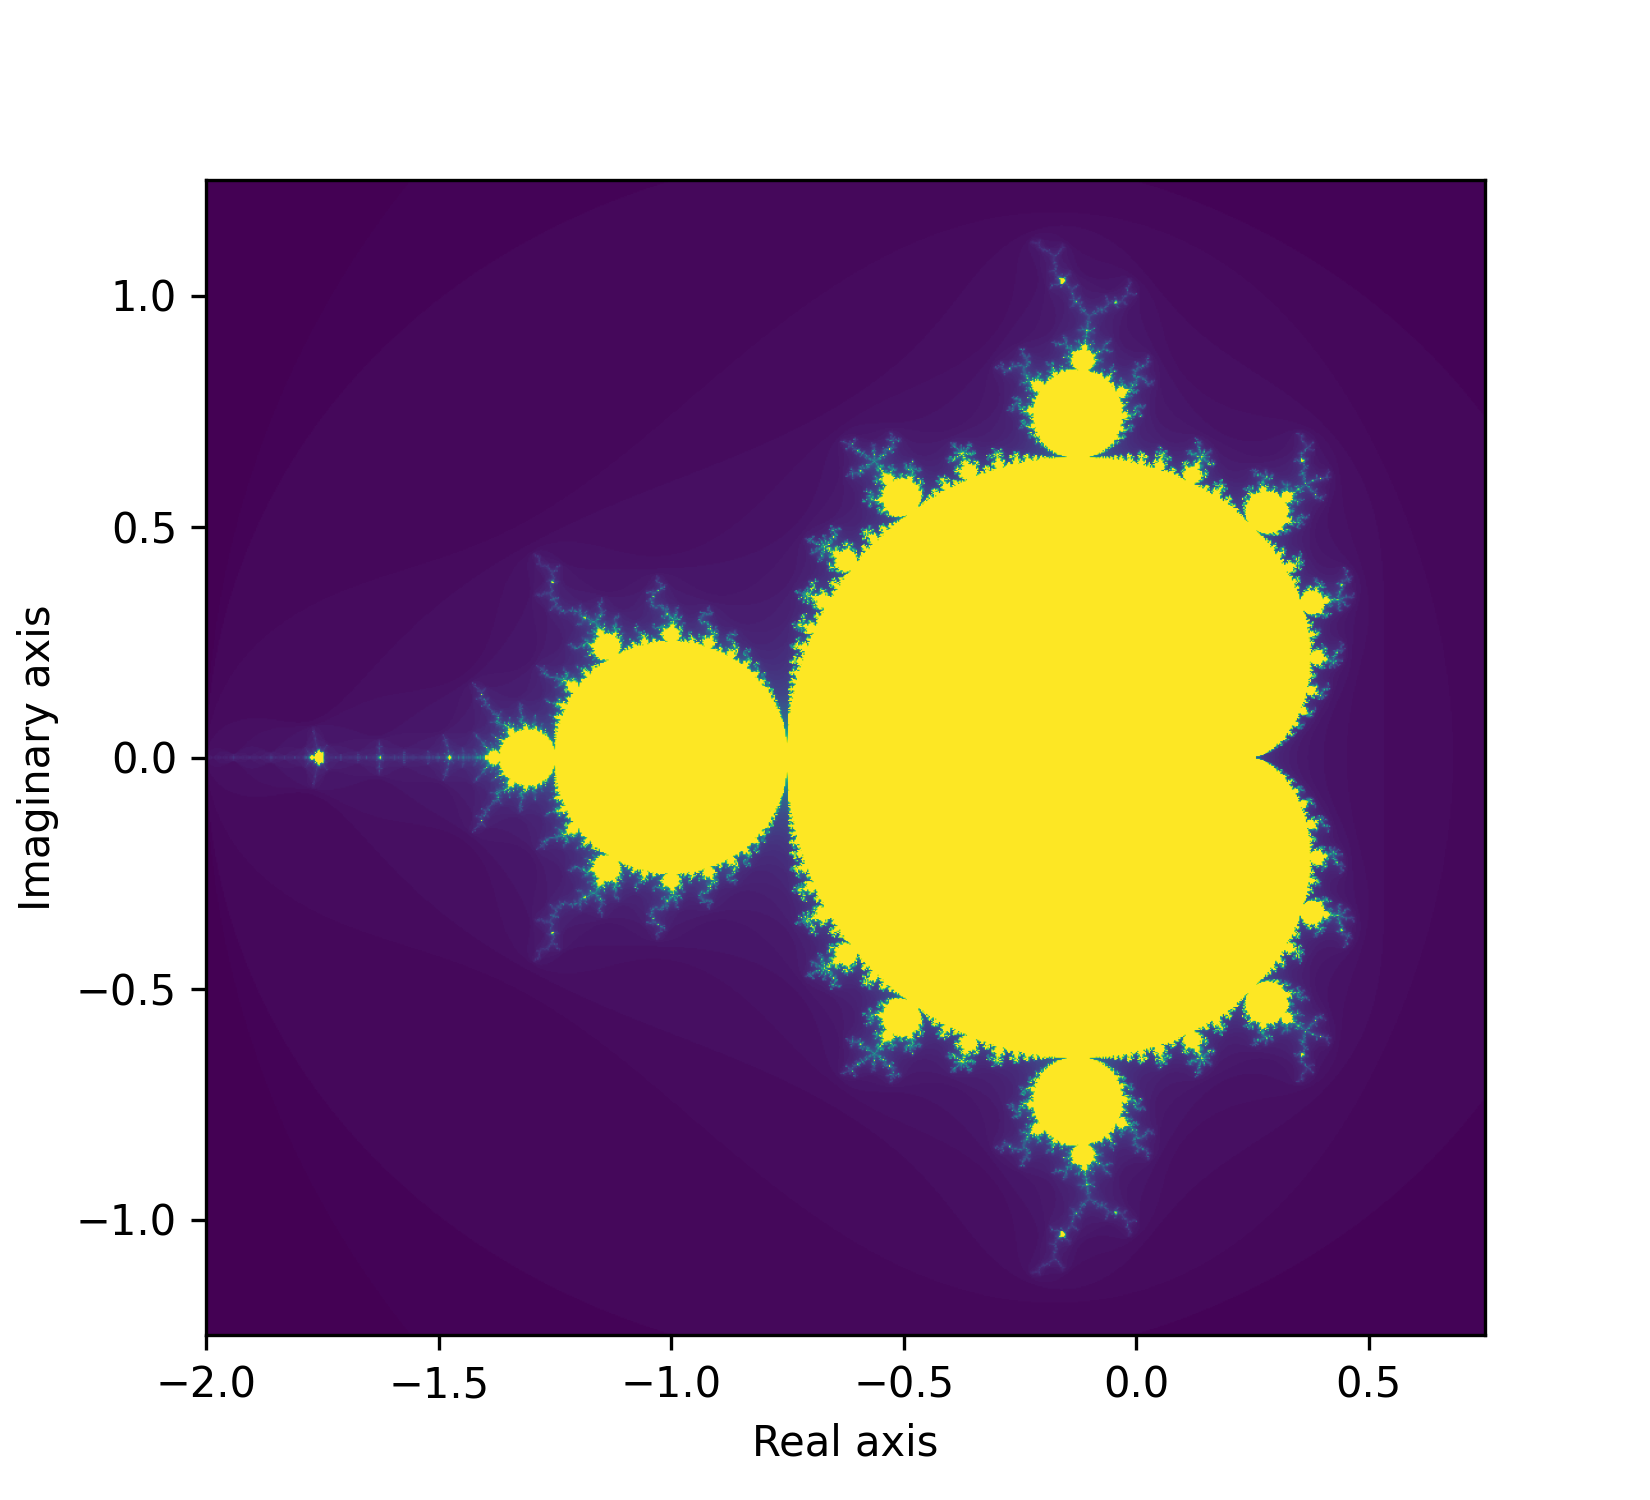
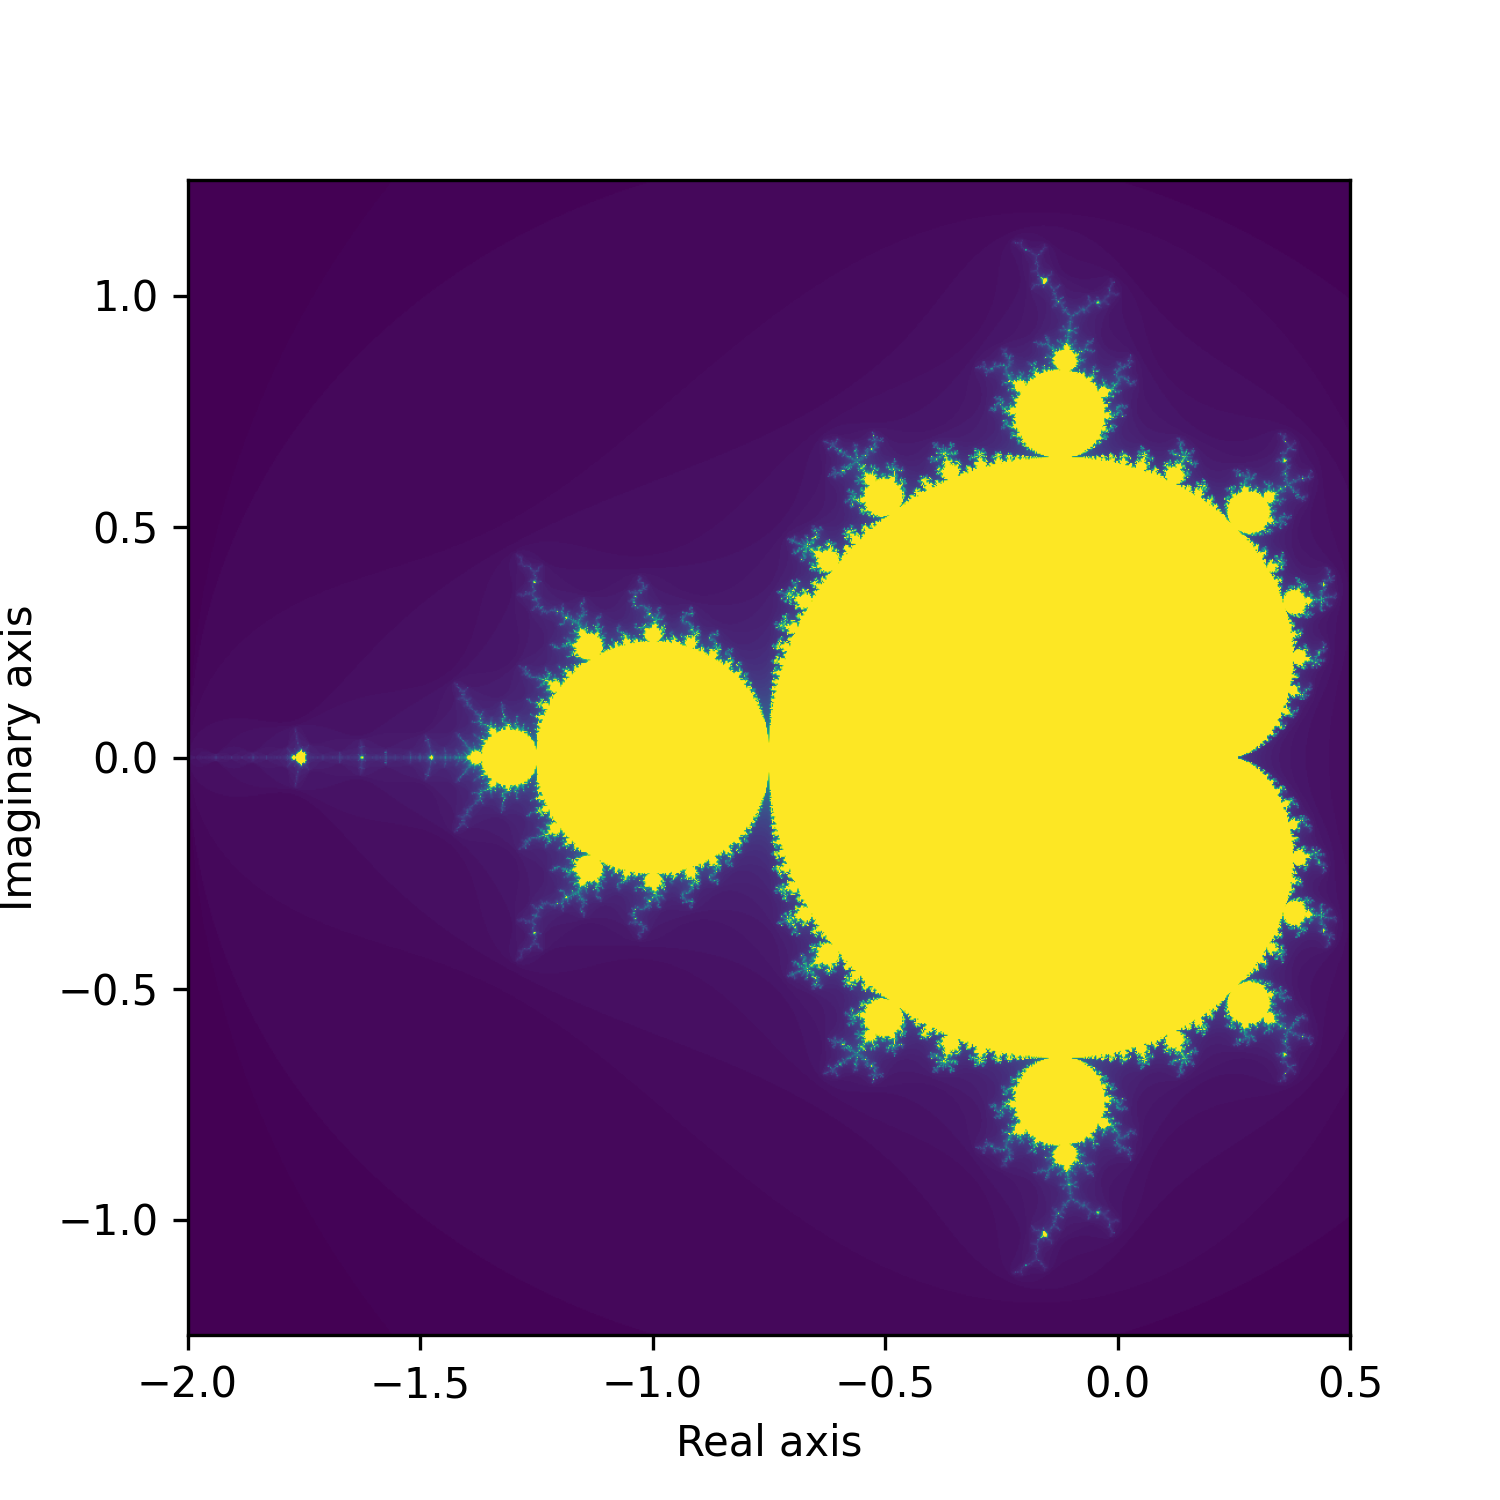
changes

diff --git a/random_pure.py b/random_pure.py
@@ -4,7 +4,7 @@ import numpy as np
 import matplotlib.mlab as mlab
 import matplotlib.pyplot as plt
 import math
-
+import time
 import scipy.stats as stats
 # from scipy.stats import norm
 
@@ -49,20 +49,31 @@ def single_plot():
     Shows calculated mandelbrot area for different sample sizes and amount of iterations
     (in a single plot)
     '''
-    sample_sizes = [10**2, 10**3, 10**4, 10**5]
+    t0 = time.time()
+    sample_sizes = [10**2, 10**3, 10**4]
     iterations = range(20, 400, 20)
-    lines = []
+    experiments = 50
+    results, lines = [], []
+    
     for sample_size in sample_sizes:
         line = []
         for iteration in iterations:
-            result = pure_random(sample_size, iteration)
-            line.append(result)
+            # get mean for number of experiments
+            for x in range(experiments):
+                result = pure_random(sample_size, iteration)
+                results.append(result)
+            print(np.mean(results))
+            line.append(np.mean(result))
 
         ci = 1.96 * np.std(line)/np.mean(line)
         error = round(np.std(line),3)
         plt.plot(iterations, line, label=f"n = {sample_size} (error = {error})")
-        # plt.fill_between(iterations, (line-ci), (line+ci), alpha=.1)
+        plt.fill_between(iterations, (line-ci), (line+ci), alpha=.1)
         lines.append(line)
+
+        # calculate elapsed time
+        t1= time.time()
+        print('sample_size:', sample_size, f't: {round(t1-t0, 2)}')
 
 
     plt.legend()

diff --git a/standard.py b/standard.py
@@ -4,14 +4,13 @@ import matplotlib.pyplot as plt
 from mandelbrot import mandelbrot
 
 left = -2
-right = .75
+right = .5
 bottom = -1.25
 top = 1.25
 
 def plot_figure(result,iterations):
-    # plt.figure(figsize = (5,5), dpi=50) # For everything!
-    plt.figure(figsize = (5.5, 5), dpi=300) # For everything!
-    # plt.axis('scaled')
+    # the figsize is based on 2x the total area
+    plt.figure(figsize = (5, 5), dpi=300) 
     plt.imshow(result.T, extent=[left, right, bottom, top], aspect = 'auto')
     # plt.title(f'Mandelbrot set with color scheme {iterations}')
     plt.xlabel('Real axis')
@@ -26,12 +25,6 @@ def standard():
     result = np.zeros([rows, cols])
     iterations = 100
     hits = 0
-    
-    # left = -2
-    # right = .75
-    # bottom = -1.25
-    # top = 1.25
-
 
     for real_index, Re in enumerate(np.linspace(left, right, num=rows )):
         for imag_index, Im in enumerate(np.linspace(bottom, top, num=cols)):
@@ -40,7 +33,6 @@ def standard():
                 hits+=1
 
     total_area = (abs(left) + right) * (abs(bottom)+top)
-    print(total_area)
     avg = hits/(rows*cols)
     area_m = avg*total_area
     print('Iterations=', iterations)
